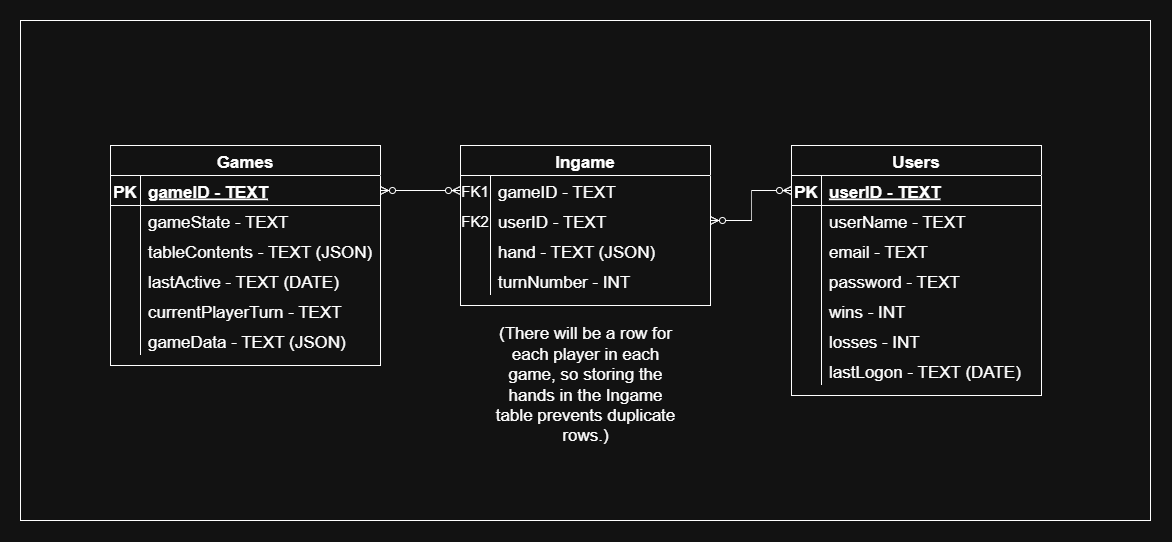
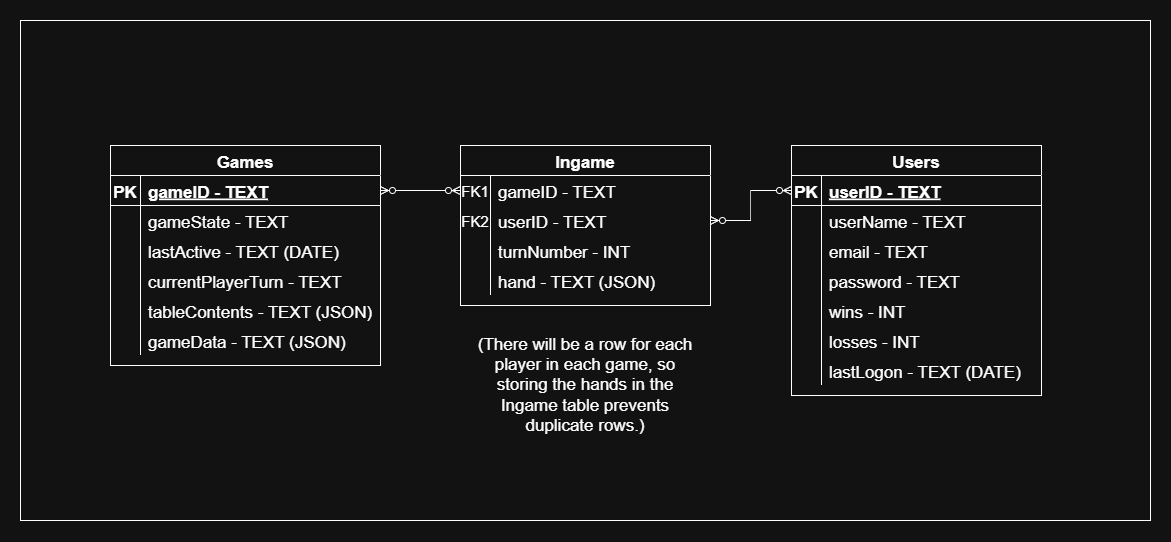
Fleshed out classes
Improved the GameSettings class with a lot of customizability to, potentially, enable custom or funny gamemodes in the future and moved the initailize() method to be under it instead of the Game class. Also, cleaned up the code as a whole. Modified the "to_json" decorator to change the __repr__() functions of each class to return a dictionary so that printing a Game object will print it entirely as a dictionary. This allows very easy conversion to JSON.

diff --git a/classes.py b/classes.py
@@ -39,7 +39,7 @@ def to_json(cls):
         # prefers them to be double quotes
         return str(self.__dict__).replace("'", '"')
     
-    cls.to_json = new_str
+    cls.__repr__ = new_str
     return cls
 
 
@@ -272,7 +272,14 @@ class IngameRow:
 
 @dataclass
 @to_json
-class GameData:
+class GameSettings:
+    """
+    Create custom settings for a game.
+
+    I'm unsure if I'll expose this to clients
+    yet (if ever) but I figured I would
+    implement a system for it just in case.
+    """
     # time limit for turns in seconds
     # zero should be infinite
     turn_time_limit: int = 60
@@ -291,57 +298,15 @@ class GameData:
     max_tile: int = 13
     min_tile: int = 1
 
-
-@dataclass
-@to_json
-class Game:
-    """
-    A class that stores statistics and values
-    about the game as a whole.
-    """
-
-    #
-    # these should be referenced individually
-    # and stored in columns
-    #
-    id: UUID = None
-
-    # stores whose turn it is in the game currently
-    current_player_turn: UUID = None
-
-    game_state: str = "PREGAME"
-    table: Table = field(default_factory=Table)
-
-    # should be used to delete the game if it hasn't
-    # seen any activity in over x amount of days.
-    # I'll probably do 3 days for PREGAME games
-    # and 10 days for ONGOING games.
-    # I don't know if I'll delete ENDED games yet
-    # as I may just archive them.
-    last_active: str = str(datetime.date(datetime.now()))
-
-    # the user can pass a dictionary
-    # if they'd like custom game data
-    game_data: GameData = GameData()
-
-    def __post_init__(self):
-        """Have to generate a default uuid manually due to psuedo-randomness."""
-        if self.id is None:
-            self.id = uuid4().hex
-
     def initialize(self):
-        """
-        Initializes the game by performing all calculations,
-        determining how many tiles to use, etc.
-        """
         # clamp the max player count between 4 and 6
-        if self.game_data.max_players < MIN_POSSIBLE_PLAYERS or self.game_data.max_players > MAX_POSSIBLE_PLAYERS:
+        if self.max_players < MIN_POSSIBLE_PLAYERS or self.max_players > MAX_POSSIBLE_PLAYERS:
             # this should be caught on the frontend, but in case it's not
             raise ValueError(f"Max player count must be between {MIN_POSSIBLE_PLAYERS} and {MAX_POSSIBLE_PLAYERS} inclusive.")
 
         # automatically set the joker count
-        if self.game_data.joker_count < 0:
-            self.game_data.joker_count = 2 if self.game_data.max_players < 5 else 4
+        if self.joker_count < 0:
+            self.joker_count = 2 if self.max_players < 5 else 4
 
         # set_count is:
         # the amount of set,
@@ -356,10 +321,85 @@ class Game:
         # (which the tile count should be tiered to reflect), but not have
         # only a portion of the colors, you need either 2 sets of all colors
         # (8 total sets) or 3 sets of all colors (12 total sets of 1 - 13, if color is ignored)
-        set_count = 8 if self.game_data.max_players < 5 else 12
+        set_count = 8 if self.max_players < 5 else 12
 
         # 4 players have 8 sets of tiles ((2 groups of all 4 colors) = 8 groups numbered 1-13), and 5 players and up have 12 sets
-        self.expected_tile_count: int = set_count * (self.game_data.max_tile - self.game_data.min_tile + 1) + self.game_data.joker_count
+        self.expected_tile_count: int = set_count * (self.max_tile - self.min_tile + 1) + self.joker_count
 
         if self.expected_tile_count > MAX_TILE_COUNT:
             raise ValueError(f"The tile count {self.expected_tile_count} is higher than the maximum count of {MAX_TILE_COUNT}.")
+
+
+@dataclass
+@to_json
+class Game:
+    """
+    A class that stores statistics and values
+    about the game as a whole.
+
+    This can be created with particular settings
+    by passing in a GameSettings object.
+    """
+    # these should be referenced individually
+    # and stored in columns
+    id: UUID = None
+
+    # stores whose turn it is in the game currently
+    current_player_turn: UUID = 0
+
+    game_state: str = "PREGAME"
+    table: Table = field(default_factory=Table)
+
+    # should be used to delete the game if it hasn't
+    # seen any activity in over x amount of days.
+    # I'll probably do 3 days for PREGAME games
+    # and 10 days for ONGOING games.
+    # I don't know if I'll delete ENDED games yet
+    # as I may just archive them.
+    last_active: str = str(datetime.date(datetime.now()))
+
+    # the user can pass a GameSettings obj
+    # if they'd like custom game data
+    game_data: GameSettings = GameSettings()
+
+    def __post_init__(self):
+        """
+        Have to generate a default uuid manually due to psuedo-randomness.
+
+        Additionally, initializes the GameSettings
+        to calculate tile count and the like.
+        """
+        if self.id is None:
+            self.id = uuid4().hex
+
+        self.game_data.initialize()
+
+    def db_list(self) -> list[str]:
+        """
+        Prepares a list that reflects the
+        ER diagram for insertion into
+        the database.
+        """
+
+        return [
+            self.id,
+            self.game_state,
+            self.last_active,
+            self.current_player_turn,
+            self.table,
+            self.game_data
+        ]
+
+    def start(self) -> bool:
+        """
+        Starts the game.
+
+        Doles out hands to players,
+        prepares the pool, and
+        determines player order.
+
+        Returns a bool of if the game
+        was successfully started or not.
+        """
+        # TODO: NOT PASS
+        pass

diff --git a/server.py b/server.py
@@ -42,29 +42,6 @@ con = sqlite3.connect(DATA_DB)
 initialize_db_and_tables(con)
 
 
-# print(get_players_in_game(con, "8dfd006c79dd4eb681079fe120d8d522"))
-# exit()
-
-# TODO: delete testing data
-game = Game(id="8dfd006c79dd4eb681079fe120d8d522")
-game.initialize()
-
-# insert_into_table(
-#     con,
-#     "games",
-#     [
-#         game.id,
-#         game.game_state,
-#         game.table.to_json(),
-#         game.current_player_turn,
-#         game.get_gamedata()
-#     ]
-# )
-
-print(f"GameID - {game.id}")
-print(f"Expected game url - http://localhost:8000/game/{game.id}")
-
-
 # TODO: implement OAuth or something
 # similar for users.
 def authenticate_player() -> bool:
@@ -75,9 +52,9 @@ def authenticate_player() -> bool:
     return True
 
 
-##########
-# ROUTES #
-##########
+##########################
+# ROUTES AND CONTROLLERS #
+##########################
 
 
 class GameController(Controller):
@@ -94,17 +71,31 @@ class GameController(Controller):
         For the time being, this will
         simply create a game when asked to.
         """
+        # TODO: make sure this ability
+        # to create games at will
+        # isn't just open to the internet
+        if not authenticate_player():
+            return
+
+        # create game here
         game = Game()
-        # TODO: add the game to the database here
-        # and handle custom settings if the client
-        # adds them here as well. For the time being,
+
+        # then, add it to the database
+        insert_into_table(
+            con=con,
+            table_name="games",
+            data=game.db_list(),
+        )
+
+        # TODO: handle custom settings if the client
+        # adds them here? For the time being,
         # I'll just make a default game everytime this
         # url is loaded by a client and will respond
         # with data about the game.
         return game
 
     @get(path="/{game_id:str}")
-    async def get_game(self, game_id: str) -> Game:
+    async def get_game(self, game_id: str) -> dict:
         """
         Returns most information about a game,
         should the user have the right permissions.
@@ -119,6 +110,8 @@ class GameController(Controller):
 
         # if the user isn't authenticated,
         # avoid giving them any information
+        # to limit the damage of DoS and other
+        # types of attacks.
         # TODO: Implement this.
         if not authenticate_player():
             return
@@ -148,8 +141,34 @@ class GameController(Controller):
             except JSONDecodeError:
                 dictionary[cl] = data[i]
 
+        # NOTE: DELETES THE POOL
+        # the client should not see
+        # what tiles remain, so
+        # this removes them from the dict
+        # before sending it out.
+        del dictionary["tableContents"]["pool"]
+
         return dictionary
 
+
+    # TODO NOTE: Should I have /join/?
+    # this IS a patch request, after all...
+    # most likely, yes, to be distinct
+    # from patch requests for a game where
+    # someone is making a move in game.
+    @patch(path="/join/{game_id:str}")
+    async def join_game(self, game_id: str) -> dict:
+        """
+        Attempts to let a player join a game.
+        """
+        current_game_players = get_players_in_game(
+            con=con,
+            gameID=game_id
+        )
+
+        # TODO: identify player UUID via OAuth
+
+        return current_game_players
 
 
 @get("/")
@@ -179,3 +198,5 @@ app = Starlite(
     # csrf_config=csrf_conf,
     # middleware=[rate_limit.middleware]
 )
+
+app.logger = logger

diff --git a/functions.py b/functions.py
@@ -32,7 +32,6 @@ import os
 import random
 import logging
 from uuid import UUID
-from itertools import chain
 from sqlite3 import Connection
 
 from classes import *
@@ -99,8 +98,8 @@ def initialize_db_and_tables(con: Connection) -> None:
         gameID TEXT,
         gameState TEXT,
         lastActive TEXT,
-        tableContents TEXT,
         currentPlayerTurn TEXT,
+        tableContents TEXT,
         gameData TEXT,
         PRIMARY KEY(gameID DESC));""",
         # TODO: Should I store current player uuid or position?
@@ -124,8 +123,8 @@ def initialize_db_and_tables(con: Connection) -> None:
         "ingame": """CREATE TABLE IF NOT EXISTS ingame(
         gameID TEXT,
         userID TEXT,
-        hand TEXT,
         turnNumber INT,
+        hand TEXT,
         FOREIGN KEY(gameID) REFERENCES games(gameID),
         FOREIGN KEY(userID) REFERENCES users(userID));""",
     }
@@ -247,35 +246,32 @@ def _get_game_or_player(con: Connection, ID: str, get_games: bool) -> list | Non
 
     if get_games:
         # get the games a player is in
-        query = f"SELECT gameID FROM ingame WHERE playerID == '{ID}';"
+        query = f"SELECT gameID FROM ingame WHERE userID == '{ID}';"
     else:
         # get the players in a game
-        query = f"SELECT playerID FROM ingame WHERE gameID == '{ID}';"
+        query = f"SELECT userID FROM ingame WHERE gameID == '{ID}';"
 
     games_data_res = cur.execute(query)
     games_data = games_data_res.fetchall()
     games_data_res.close()
     cur.close()
 
-    # "flattening" the table using itertools
-    # and chain.from_terable. This makes it all
-    # into a single list of items
-    temp_chain = chain.from_iterable(games_data)
-    games_data = list(temp_chain)
+    # "flattening" the table
+    users = [item[0] for item in games_data]
 
-    return games_data
+    return users
 
 
-def get_games_with_player(con: Connection, playerID: str) -> list | None:
+def get_games_with_player(con: Connection, userID: str) -> list | None:
     """
     Gets the game IDs from the join table "ingame".
 
     In other words: gets all the games a player is in.
     """
-    return _get_game_or_player(con, playerID, True)
+    return _get_game_or_player(con, userID, True)
 
 
-def get_players_in_game(con: Connection, gameID: int) -> list | None:
+def get_players_in_game(con: Connection, gameID: str) -> list | None:
     """
     Gets the player IDs from the join table "ingame".
 
